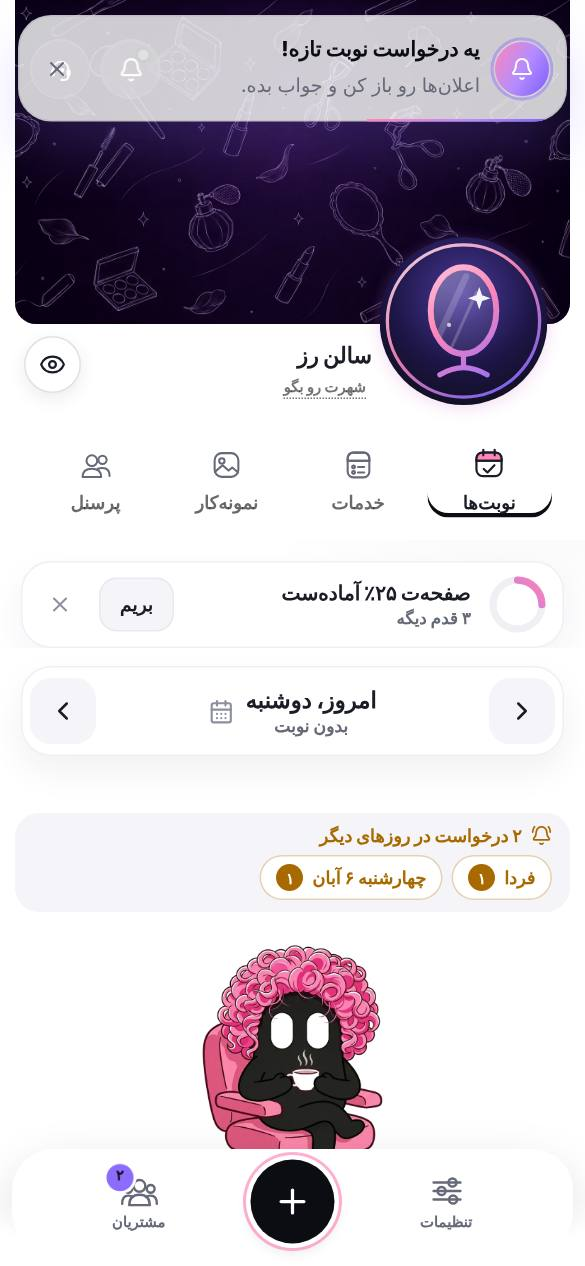
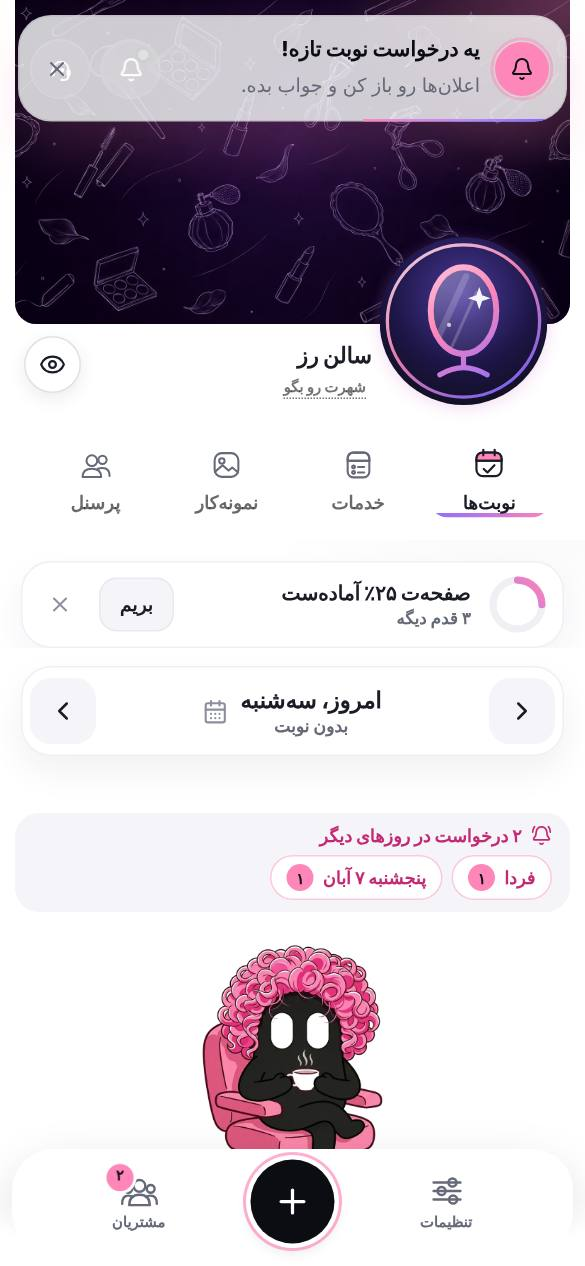
Brand pink on salon and artist screens: live moments are pink for every role
Salons and artists keep violet for the fixed parts; what is new or happening
now (unread count, a waiting request, the new-booking notice, the active tab
line, a soft light in the cover's corner) is the mascot's pink. New --live*
tokens and app/styles/features/brandLive.css; screenshots retaken, with a
night version of the salon and artist day view.

Claude-Session: https://claude.ai/code/session_01VwnzUpWzVuecfDeW1qXUNH

diff --git a/app/styles/features/brandLive.css b/app/styles/features/brandLive.css
@@ -1,0 +1,53 @@
+/* Brand pink on every screen (owner's decision, 2026-10-27).
+   Salons and artists keep violet for the fixed parts (main button, logo ring, cover). What is live, new or
+   good news is pink for everyone: the unread count, a new request, the new-booking notice, the line under the
+   tab you are on, and a soft pink light in the cover's corner. Never a pink background for a whole card or
+   section. Tokens: --live, --live-fill, --on-live-fill, --live-soft (tokens.css). This file loads after the
+   legacy parts, so its selectors only need to match theirs. */
+
+/* 1 · the line under the tab you are on: violet into pink (salon and artist rails) */
+:root:root:root .profileModeRail.profileModeRail.profileModeRail.is-panelRail:not(.is-client) button.active,
+.profilePanel.page-profile:has(.createdProfile.is-artist) > .profileModeRail.is-panelRail.is-artist-rail button.active,
+.profileHero.is-salon .profileModeRail.is-panelRail.is-salon button.active {
+  box-shadow: none !important;
+  background-image: linear-gradient(90deg, var(--brand-violet), var(--brand-pink)) !important;
+  background-size: 100% 3px !important;
+  background-position: bottom !important;
+  background-repeat: no-repeat !important;
+}
+
+/* 2 · unread count on «مشتریان» */
+.bottomNavBadge { background: var(--live-fill); color: var(--on-live-fill); }
+
+/* 3 · a request waiting for the salon or artist: a pink rail, ring and chip (the client's own view keeps amber) */
+.bkRow.is-tone-pending:not(.is-client)::before { background: var(--live-fill); }
+.bkRow.is-tone-pending:not(.is-client) .bkSide { --bk-rail: var(--live-fill); }
+.bkRow.is-tone-pending:not(.is-client) {
+  border-color: rgb(var(--brand-pink-rgb) / 0.45);
+  box-shadow: 0 0 0 3px rgb(var(--brand-pink-rgb) / 0.12), 0 6px 18px rgb(var(--shadow-rgb) / 0.05);
+}
+.bkRow.is-tone-pending:not(.is-client) .bkChip.is-status-pending { background: var(--live-fill); color: var(--on-live-fill); }
+
+/* requests on other days */
+.pendingOtherDays,
+.pendingOtherDaysList button { color: var(--live); }
+.pendingOtherDaysList button { border-color: rgb(var(--brand-pink-rgb) / 0.45); }
+.pendingOtherDaysList b { background: var(--live-fill); color: var(--on-live-fill); }
+
+/* 4 · the new-booking notice: a pink dot with a pink ring */
+.noticeAvatar { background: var(--live-fill); color: var(--on-live-fill); }
+.noticeAvatar::after { border-color: var(--brand-pink); }
+.notice-glass { box-shadow: inset 0 0 0 1px rgb(var(--ink-rgb) / 0.08), 0 18px 40px rgb(var(--brand-pink-rgb) / 0.2); }
+
+/* 5 · a soft pink light in the top corner of the salon and artist cover (an uploaded poster paints over it) */
+.profileHero.is-salon .salonHeroBanner.salonHeroBanner {
+  background:
+    radial-gradient(60% 75% at 100% 0%, rgb(var(--brand-pink-rgb) / 0.42), rgb(var(--brand-pink-rgb) / 0) 70%),
+    url("/artist-hero-doodle.webp") center / cover no-repeat !important;
+}
+.profilePanel.page-profile:has(.createdProfile.is-artist) .profileHero.is-artist > .artistHeroPoster.artistHeroPoster {
+  background-image:
+    radial-gradient(60% 75% at 100% 0%, rgb(var(--brand-pink-rgb) / 0.42), rgb(var(--brand-pink-rgb) / 0) 70%),
+    radial-gradient(circle at 18% 5%, rgba(51, 51, 55, 0.34), transparent 34%),
+    url("/artist-hero-doodle.webp");
+}

diff --git a/app/styles/tokens.css b/app/styles/tokens.css
@@ -281,6 +281,26 @@ img, svg, picture, video, canvas {
   }
 }
 
+/* Live moments: pink for every role (2026-10-27). What is new or happening now (a fresh request, an unread
+   count, a new-booking notice) is the mascot's pink even on violet salon and artist screens, so the brand pink
+   is felt everywhere while the fixed parts keep the role colour. Small marks only: chips, dots, rails, badges. */
+:root {
+  --live: var(--pink-deep);
+  --live-fill: var(--brand-pink);
+  --on-live-fill: var(--brand-ink);
+  --live-soft: var(--pink-soft);
+}
+:root[data-theme="dark"] {
+  --live: #ff9cc6;
+  --live-soft: rgba(255, 134, 184, 0.18);
+}
+@media (prefers-color-scheme: dark) {
+  :root:not([data-theme="light"]) {
+    --live: #ff9cc6;
+    --live-soft: rgba(255, 134, 184, 0.18);
+  }
+}
+
 /* Role accent: salons and artists work in violet, clients in pink. */
 :root[data-role="pro"] {
   --accent: var(--violet-deep);

diff --git a/app/styles.css b/app/styles.css
@@ -64,5 +64,6 @@
 @import "./styles/features/landingLearn.css";
 @import "./styles/features/clientHome.css";
 @import "./styles/features/theme.css";
+@import "./styles/features/brandLive.css";
 @import "./styles/features/portraitLock.css";
 @import "./styles/islands.css";

diff --git a/docs/DESIGN_SYSTEM.md b/docs/DESIGN_SYSTEM.md
@@ -34,6 +34,7 @@
 - **دکمه اصلی و حالت انتخابشده** = `--fill-strong` با متن `--n-0`. روز مشکی است، شب صورتی (برای سالن و آرتیست بنفش روشن). گرادیان همان: `--fill-strong-grad`.
 - **حالت تیره:** `<html data-theme="dark">`؛ بدون آن، دستگاه تصمیم میگیرد. انتخاب کاربر در `localStorage` (`frfro-theme`) ذخیره میشود و قبل از اولین رنگآمیزی در `layout.jsx` اعمال میشود (`shared/lib/theme.js`). کنترل آن در تنظیمات، بخش «ظاهر برنامه».
 - **نقش:** `<html data-role="client|pro">`. مشتری لهجه صورتی دارد، سالن و آرتیست بنفش.
+- **لحظههای زنده صورتیاند، برای همه (۲۷ اکتبر ۲۰۲۶):** چیزهای ثابت سالن و آرتیست بنفش میمانند، ولی هرچه تازه یا در جریان است صورتی است: عدد خواندهنشده، درخواست منتظر جواب، اعلان نوبت تازه، خط زیر تب فعال (بنفش به صورتی) و نور کمرنگ گوشهٔ کاور. توکنها `--live`، `--live-fill`، `--on-live-fill`، `--live-soft`؛ قاعدهها در `app/styles/features/brandLive.css`. صورتی فقط نشانه کوچک است: خط، نقطه، لبه، برچسب. نه زمینهٔ کارت، نه خط بالای کارت.
 - **جزیرههای تیره:** سطحهایی که در هر دو حالت تیره میمانند (پنل تیره با متن روشن، کنترلهای شیشهای روی عکس) در لیست `app/styles/islands.css` ثبت میشوند. داخلشان نردبان روی مقدار روز قفل میشود.
 - **رنگ شفاف:** هر رنگی که با شفافیت به کار میرود یک نسخهٔ کانالی `--X-rgb` دارد (`--n-0-rgb…--n-950-rgb`، `--accent-rgb`، `--info-rgb`، `--danger-rgb`، `--warning-rgb`، `--success-rgb`، `--brand-pink-rgb`). بنویس `rgb(var(--n-50-rgb) / .4)`. `color-mix()` ممنوع است، چون WebView قدیمی اندروید (قبل از Chrome ۱۱۱) آن را نمیشناسد و پسزمینهٔ کمرنگ بیصدا حذف میشود. تست `tests/unit/colourSystem.test.js` هم این را میپاید و هم یکی بودن نردبان هگز و کانالها را. (فقط پنل مدیریت از قبل `color-mix` دارد و معاف است.)
 - متن روی صورتی همیشه مشکی است. روی بنفش `#8b6cff` متن سفید کوچک نگذار (از `--violet-deep` استفاده کن).

diff --git a/docs/DECISIONS.md b/docs/DECISIONS.md
@@ -100,3 +100,4 @@ One line each, dated. Claude reads this before asking questions.
 - 2026-10-27 (admin panel login, owner took every recommendation after deleting the app account behind the admin phone locked the panel): the admin panel has its own accounts, apart from the app (`admin_accounts`, migration 057). An admin signs in with the phone number, a password of the panel's own («رمز مدیر») and the 6-digit authenticator code; no app account is needed, and an app account with the same phone is an ordinary account whose deletion changes nothing for the panel.
 - 2026-10-27: A lost admin password or phone is fixed by running «راهاندازی اولیه» again with the server's setup key: it sets a new admin password and a new authenticator; the old ones keep working until the first new code is typed. Another admin can still switch someone's authenticator off from «امنیت».
 - 2026-10-27: Who is an admin stays the server's list of phones (`FRFRO_ADMIN_PHONES`); no admin is added from inside the panel. The «فرفرو مدیر» app's news belongs to the admin account (sign in once in that app again). Past support replies and the admin log stay as they are.
+- 2026-10-27 (brand pink everywhere, user chose it from the samples: «این بهترین حالتشه»): on salon and artist screens the fixed parts stay violet (main button, logo ring, cover), and what is live or new is pink for every role: the unread count on «مشتریان», a request waiting for an answer (rail, ring, chip), «درخواست در روزهای دیگر», the new-booking notice, the line under the tab you are on (violet into pink) and a soft pink light in the cover's corner. No pink line on top of cards, no pink backgrounds (`app/styles/features/brandLive.css`, tokens `--live*`).
